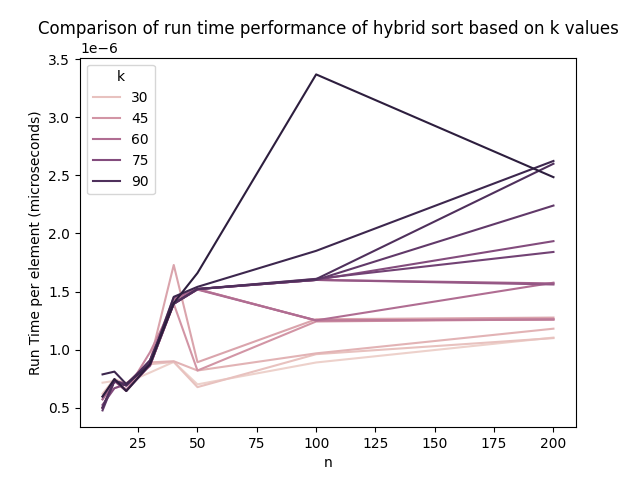
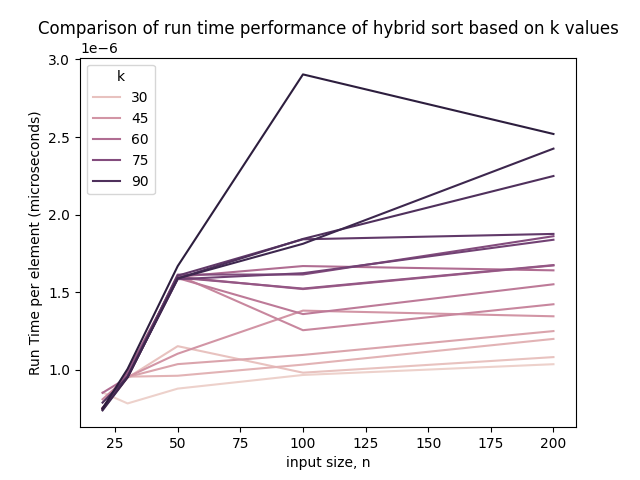
Make graphs not ugly

diff --git a/Hybrid Sorting/main.py b/Hybrid Sorting/main.py
@@ -90,15 +90,16 @@ def measure_hybrid_sort(k, runtimes):
      # 
     random.seed(0)
     for size in runtimes[k].keys():
-        arr = [random.randint(0, 1000) for _ in range(size)]
-        start = time.time()
-        quicksort_hybrid(arr,k)
-        end = time.time()
-        runtimes[k][size].append((end - start)/size)
+        for _ in range(10):
+            arr = [random.randint(0, 1000) for _ in range(size)]
+            start = time.time()
+            quicksort_hybrid(arr,k)
+            end = time.time()
+            runtimes[k][size].append((end - start)/size)
 if __name__ == '__main__':
     hybrid_sort_runtimes = {}
     for i in range(5,21):
-        hybrid_sort_runtimes[i*5] = {10:[],15:[],20:[],30:[], 40:[], 50: [],100:[],200:[]}
+        hybrid_sort_runtimes[i*5] = {20:[], 30:[], 50:[], 100:[], 200:[]}
     for k in hybrid_sort_runtimes.keys():
         measure_hybrid_sort(k, hybrid_sort_runtimes)
         #print results for each k
@@ -107,14 +108,18 @@ if __name__ == '__main__':
             print("n = ", size, "average time/element = ", sum(hybrid_sort_runtimes[k][size])/len(hybrid_sort_runtimes[k][size]))
 
 
-    #plot results
+    
+    # Average results
     for k in hybrid_sort_runtimes.keys():
         for size in hybrid_sort_runtimes[k].keys():
+            # Average the 10 run times for each size
             hybrid_sort_runtimes[k][size] = sum(hybrid_sort_runtimes[k][size])/len(hybrid_sort_runtimes[k][size])
+
+    # Plot results
     df = pd.DataFrame(hybrid_sort_runtimes)
     df = df.transpose()
     df = df.reset_index()
-    df = df.melt(id_vars=['index'], value_vars=[10,15,20,30,40,50,100,200])
+    df = df.melt(id_vars=['index'], value_vars=[20,30,50,100,200])
     df.columns = ['k', 'n', 'time/element']
     sns.lineplot(data=df, x='n', y='time/element', hue='k')
     plt.title('Comparison of run time performance of hybrid sort based on k values')
